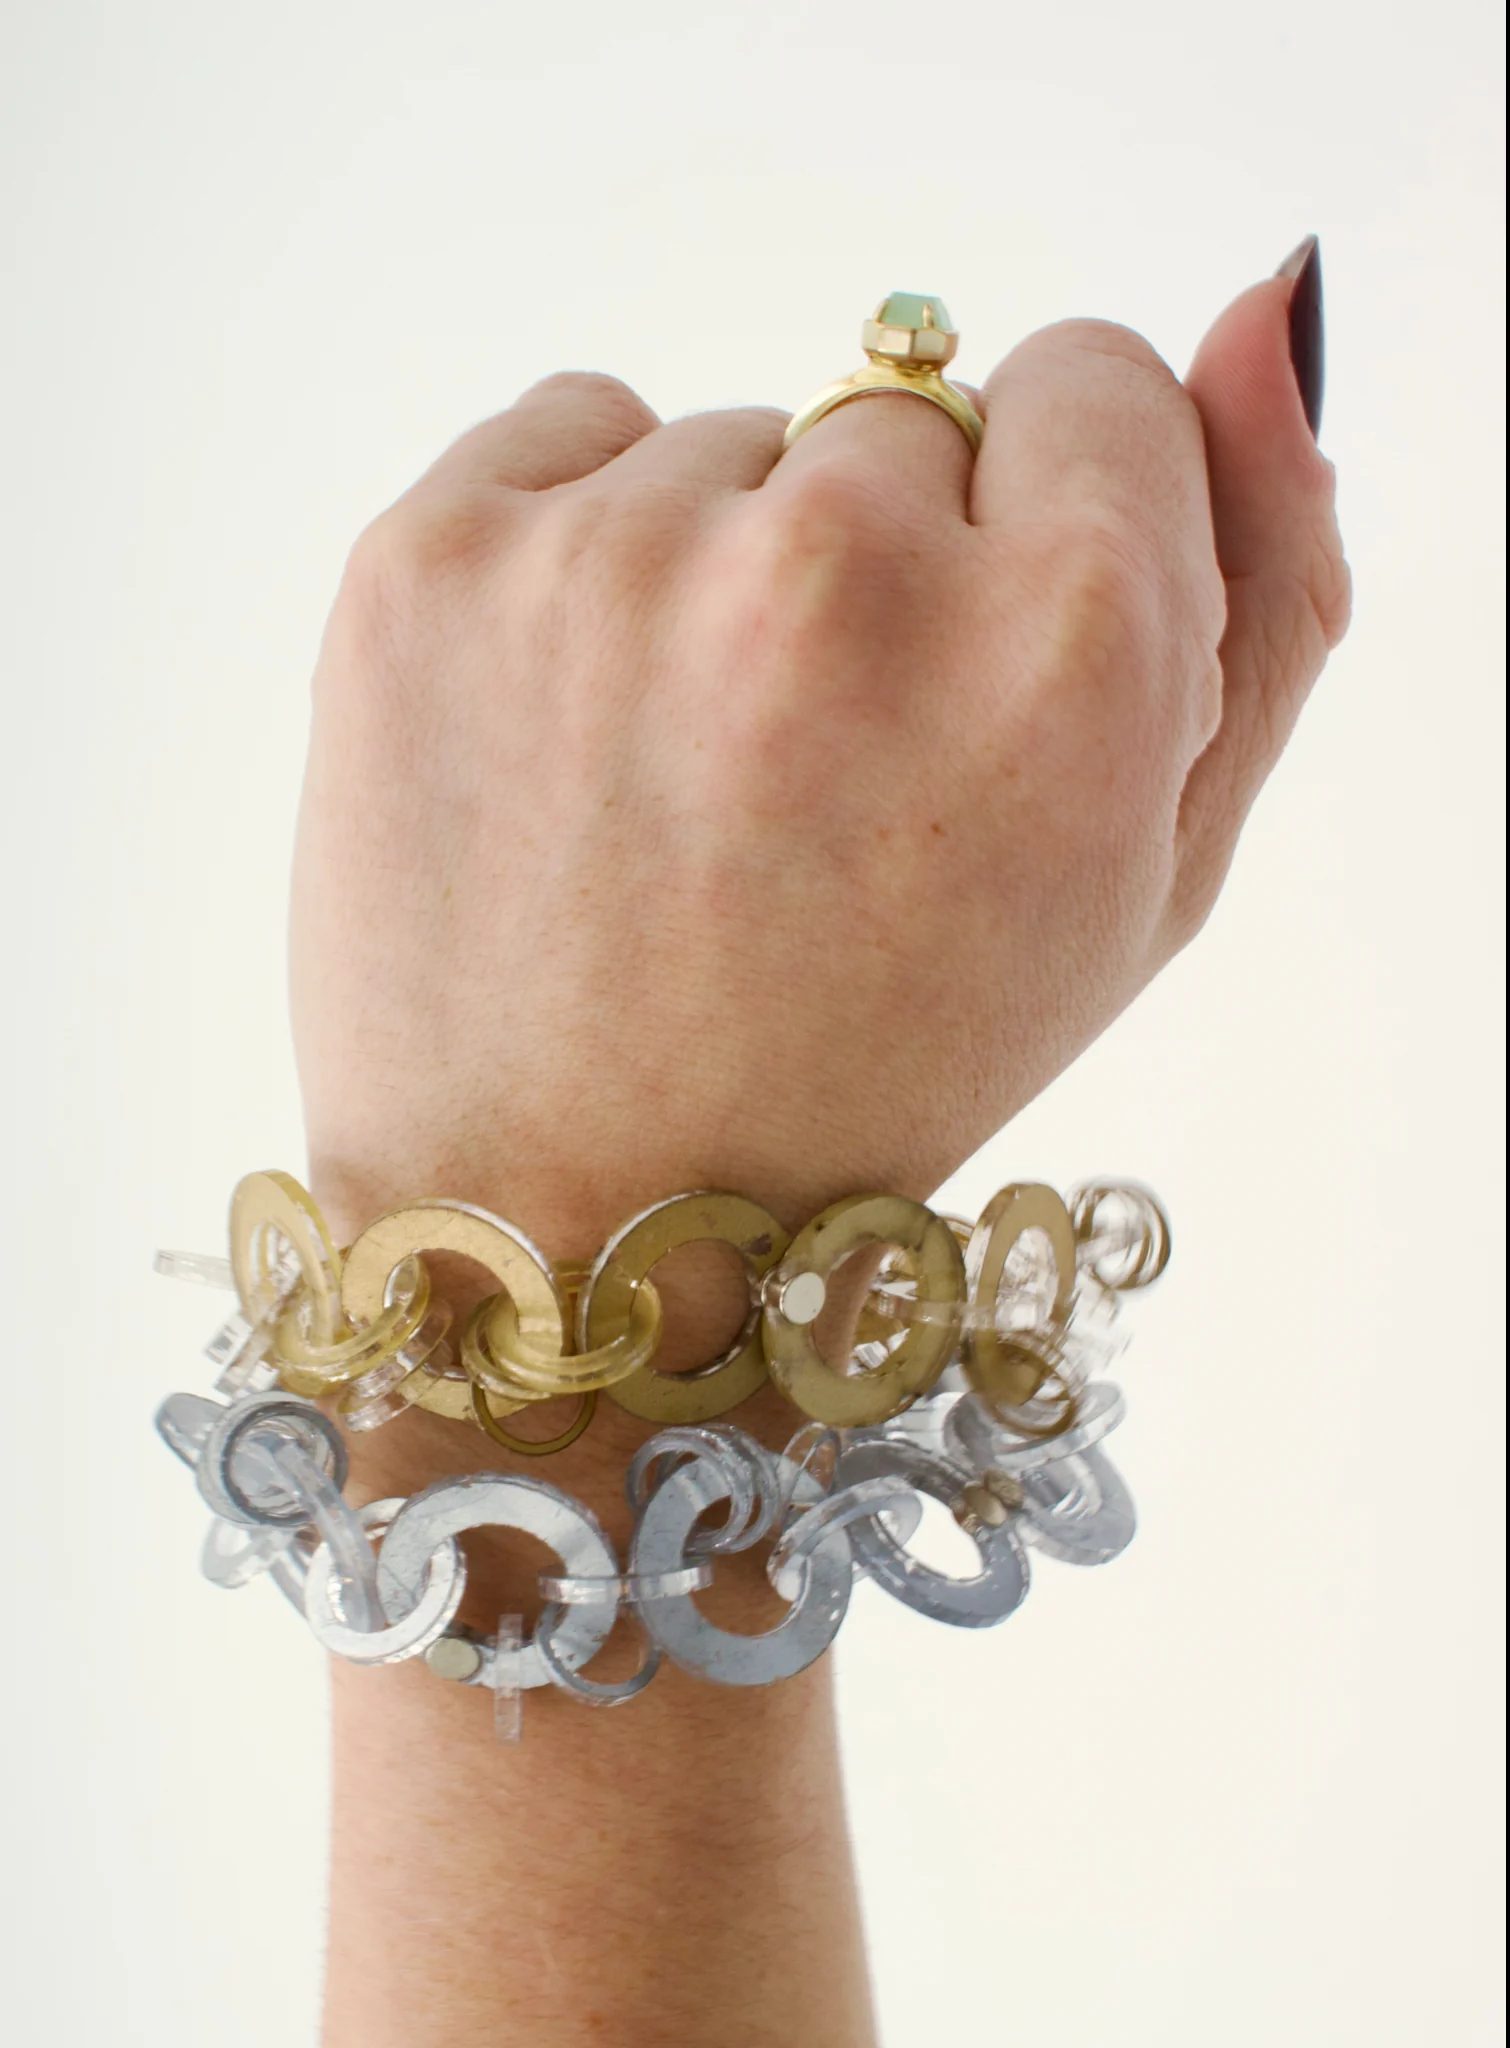
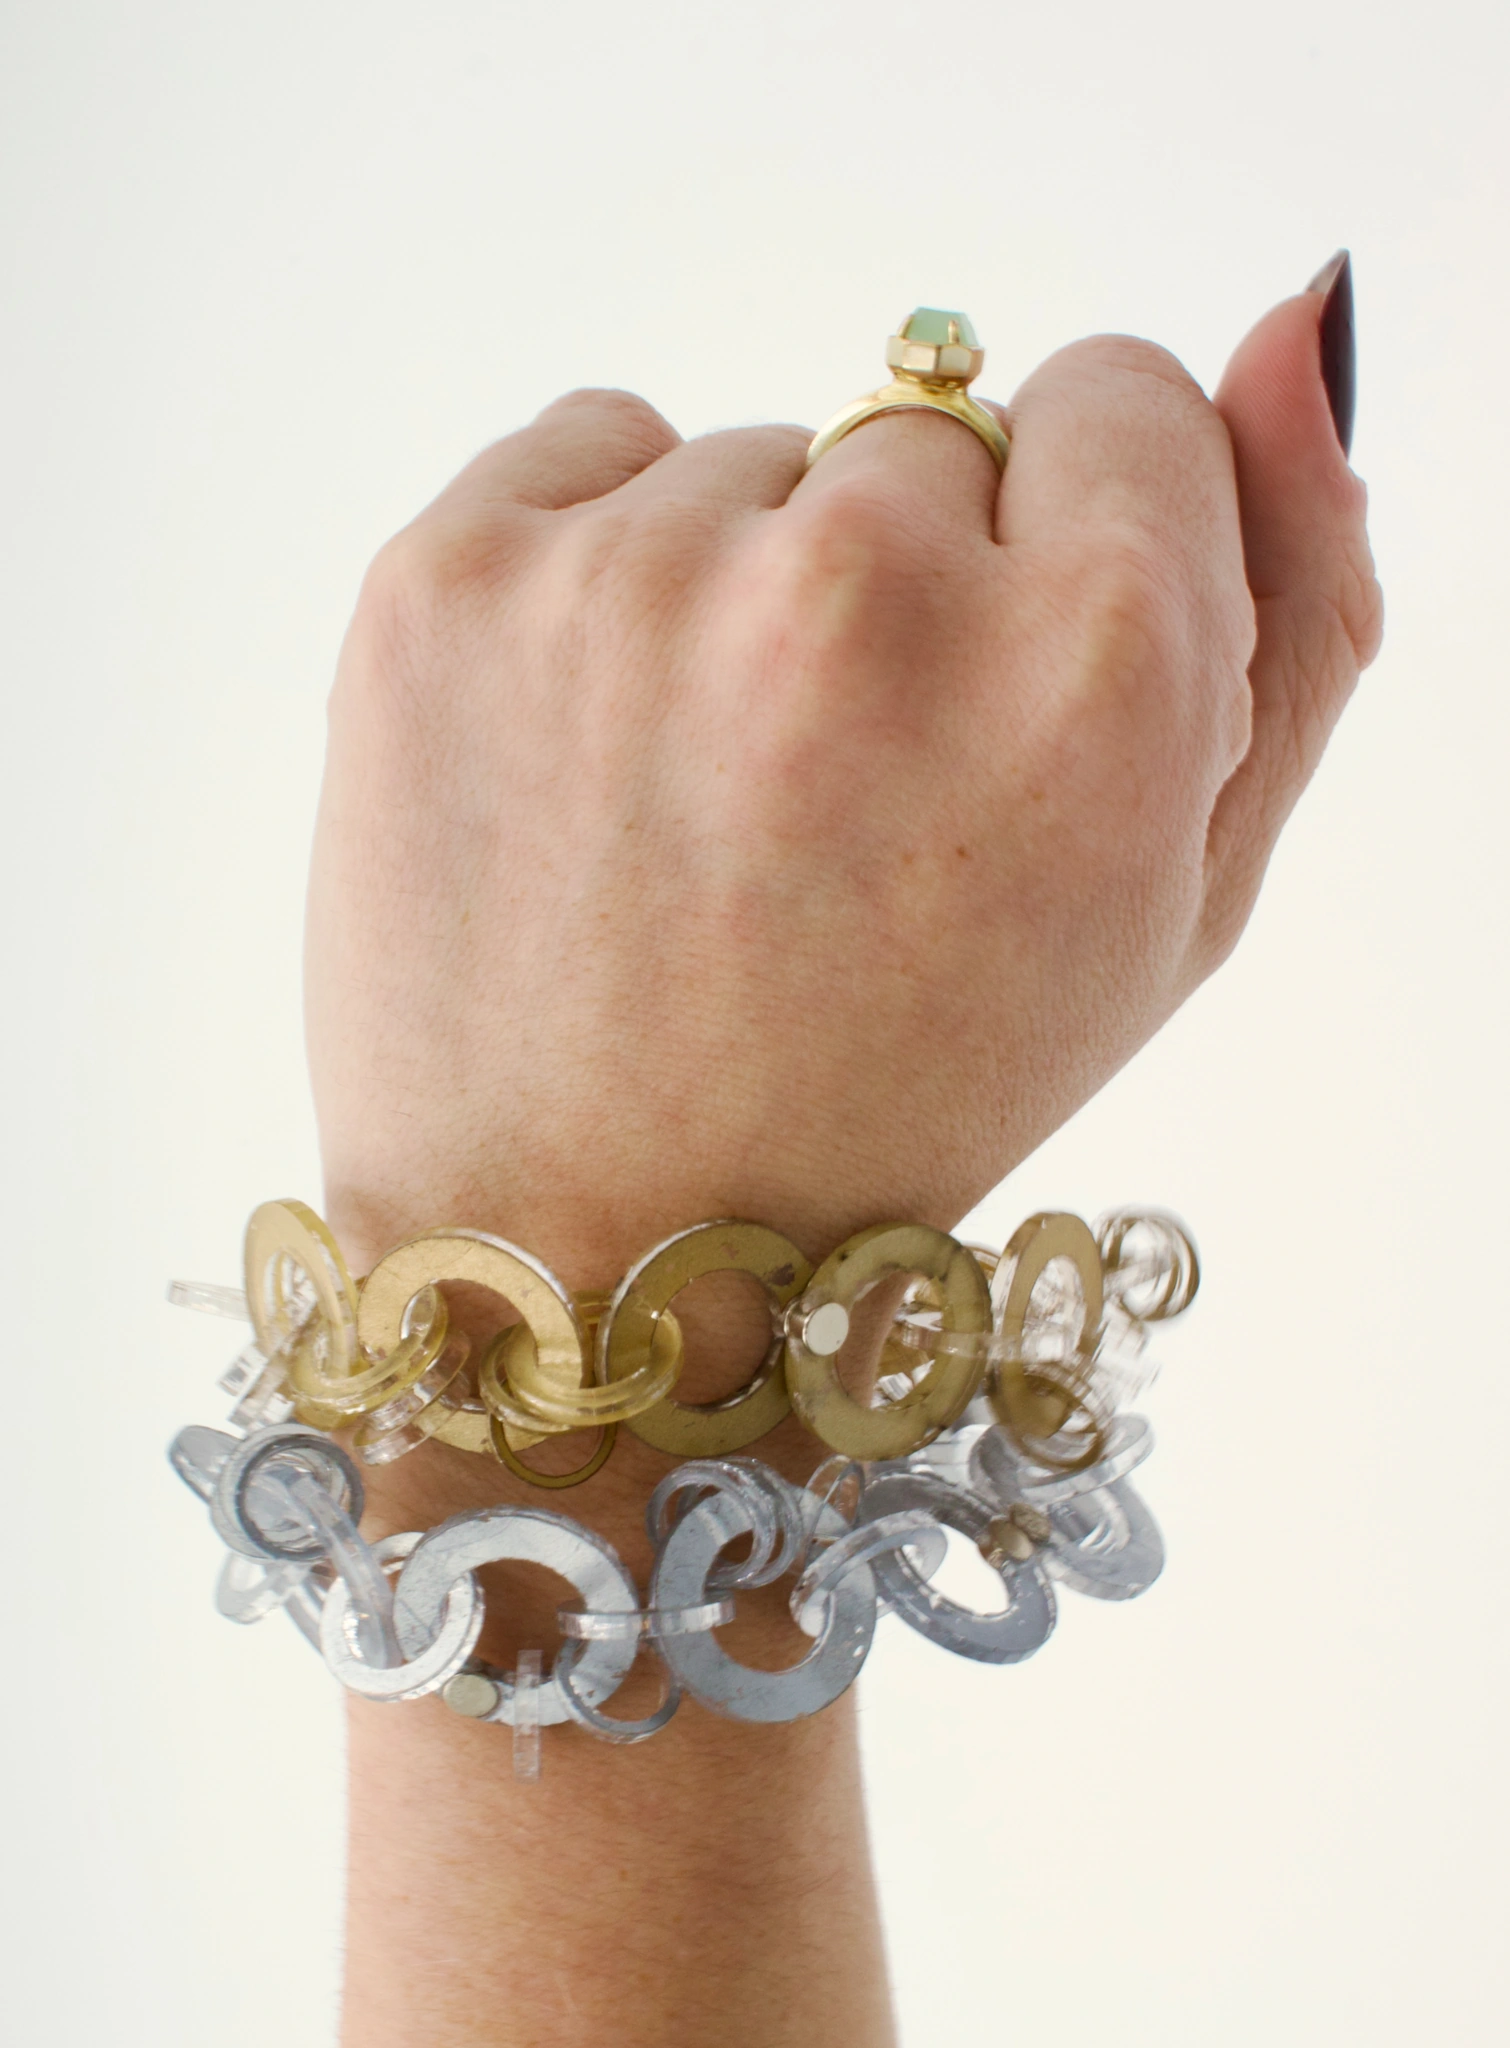
Went through all pages on chrome and safari and made chagnes

diff --git a/css/style.css b/css/style.css
@@ -118,7 +118,7 @@ body:has(.menu[open]) {
 }
 
 /* MOBILE */
-@media (max-width: 640px) {
+@media (max-width: 700px) {
     .site-header {
         padding-left: 12px;
     }
@@ -390,7 +390,7 @@ h1 {
 }
 
 /* MOBILE HOMEPAGE */
-@media (max-width: 640px) {
+@media (max-width: 700px) {
     .home-page {
         padding: 20px 5% 30px;
     }
@@ -550,7 +550,7 @@ h1 {
     opacity: 1;
 }
 /* Mobile */
-@media (max-width: 600px) {
+@media (max-width: 700px) {
     .page-intro h1 {
         font-size: 36px;
     }
@@ -656,7 +656,7 @@ h1 {
     object-fit: cover;
 }
 /* MOBILE */
-@media (max-width: 600px) {
+@media (max-width: 700px) {
     .material-hero {
         height: 250px;
     }
@@ -795,7 +795,7 @@ h1 {
 }
 /* Material connections */
 .object-connections {
-    padding: 60px 0 80px;
+    padding: 50px 0 25px;
 }
 .object-connections h2 {
     font-family: "Bricolage Grotesque", sans-serif;
@@ -889,6 +889,7 @@ h1 {
     grid-column: 2;
     grid-row: 2;
     height: 280px;
+    object-position: center bottom;
 }
 .eterna-bracelet-page .object-gallery-right img:nth-child(3) {
     grid-column: 3;
@@ -950,6 +951,13 @@ h1 {
 }
 
 /* LUGGAGE TAG SPECIFICS */
+.luggage-tags-page .object-description {
+    max-width: 1000px;
+}
+
+.luggage-tags-page .object-description p:last-child {
+    margin-bottom: 0;
+}
 .luggage-sticker-photo p {
     font-size: 12px;
     margin: 0 0 8px;
@@ -994,6 +1002,8 @@ h1 {
 .object-gallery-grid {
     display: grid;
     grid-template-columns: repeat(2, minmax(0, 1fr));
+    align-content: start;
+    gap: 8px
 }
 .object-gallery-grid img {
     height: auto;
@@ -1002,14 +1012,14 @@ h1 {
 
 /* LETTERFORM SPECIFICS  */
 .object-gallery-posters {
-    grid-template-columns: 0.6fr 1fr;
+    grid-template-columns: 1fr;
+    gap: 20px;
 }
 .object-gallery-posters .object-details {
-    padding: 7vw 0 0;
+    padding: 0;
 }
-.object-gallery-posters .object-gallery-grid img {
-    aspect-ratio: 13 / 19;
-    object-fit: contain;
+.object-gallery-posters .object-gallery-grid {
+   gap: 8px;
 }
 
 /* ABOUT PAGE */
@@ -1043,8 +1053,20 @@ h1 {
     margin-bottom: 20px;
 }
 
+/* TABLET OBJECT PAGES */
+@media (min-width: 701px) and (max-width: 1024px) {
+    /* ReBagged image proportions */
+    .object-image-three-uneven {
+        grid-template-columns: 0.7fr 1.2fr 1fr;
+    }
+    /* Letter Exchange gallery */
+    .object-gallery:has(.object-gallery-grid) {
+        grid-template-columns: 0.7fr 1fr;
+    }
+}
+
 /* MOBILE */
-@media (max-width: 600px) {
+@media (max-width: 700px) {
     .object-heading h1 {
         font-size: 34px;
     }
@@ -1061,6 +1083,10 @@ h1 {
     .object-image-pair img {
         height: 170px;
     }
+    /* ReBagged three-image layout */
+    .object-image-three-uneven {
+        grid-template-columns: repeat(3, 1fr);
+    }
     .object-description {
         padding: 30px 0;
     }
@@ -1075,9 +1101,6 @@ h1 {
         grid-template-columns: 1fr 1fr;
         gap: 5px;
     }
-    .object-gallery-grid img {
-        height: auto;
-    }
     .object-gallery-left > img {
         height: 220px;
     }
@@ -1087,6 +1110,9 @@ h1 {
     .object-gallery-right img {
         height: 145px;
     }
+    .object-gallery-right.object-gallery-grid img {
+        height: auto;
+    }
     .object-details {
         padding: 20px 5px 0;
     }
@@ -1094,7 +1120,7 @@ h1 {
         font-size: 12px;
     }
     .object-connections {
-        padding: 45px 0 55px;
+        padding: 35px 0 15px;
     }
     .object-connections h2 {
         font-size: 24px;
@@ -1107,19 +1133,32 @@ h1 {
         height: 140px;
         font-size: 17px;
     }
+    /* Larger circle when there is only one connection */
+    .object-connection-links a:only-child {
+        width: 180px;
+        height: 180px;
+        font-size: 20px;
+    }
     /* Eterna Bracelet mobile */
     .eterna-bracelet-page .object-gallery {
-        grid-template-columns: 1fr 1fr;
+    grid-template-columns: 1fr 1fr;
     }
     .eterna-bracelet-page .object-gallery-left > img,
     .eterna-bracelet-page .object-gallery-right img:nth-child(1) {
         height: 180px;
     }
+    .eterna-bracelet-page .object-details {
+        grid-column: 1 / 3;
+        grid-row: 2;
+        padding: 20px 5px;
+    }
     .eterna-bracelet-page .object-gallery-right img:nth-child(2) {
+        grid-column: 1;
+        grid-row: 3;
         height: 240px;
     }
     .eterna-bracelet-page .object-gallery-right img:nth-child(3) {
-        grid-column: 1;
+        grid-column: 2;
         grid-row: 3;
         height: 240px;
     }
@@ -1228,7 +1267,7 @@ h1 {
 
 /* MOBILE FOOTER */
 
-@media (max-width: 600px) {
+@media (max-width: 700px) {
     .footer-bottom {
         flex-direction: column;
         align-items: flex-start;
